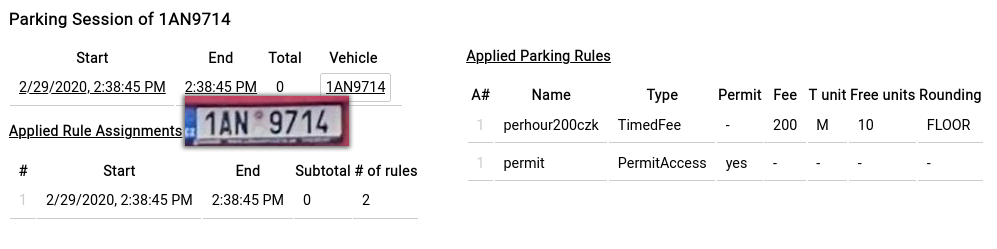
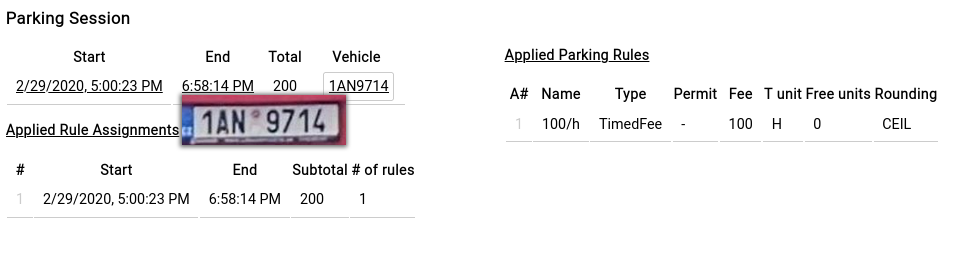
RC4

diff --git a/prace/kapitoly/webova_aplikace.tex b/prace/kapitoly/webova_aplikace.tex
@@ -413,3 +413,4 @@ dole v sekci Simulation.
 Viz obrázek \ref{fig:page_session}.
 Pokud uživatel najede myší na čas vjezdu nebo výjezdu, tak se mu zobrazí výřez SPZ z pořízeného snímku.
 Zároveň lze kliknout na SPZ a zobrazit si ostatní záznamy onoho vozidla na stejné obrazovce.
+Součástí záznamu je i kopie použitých pravidel, protože mohou být zpětně změněna správcem.
